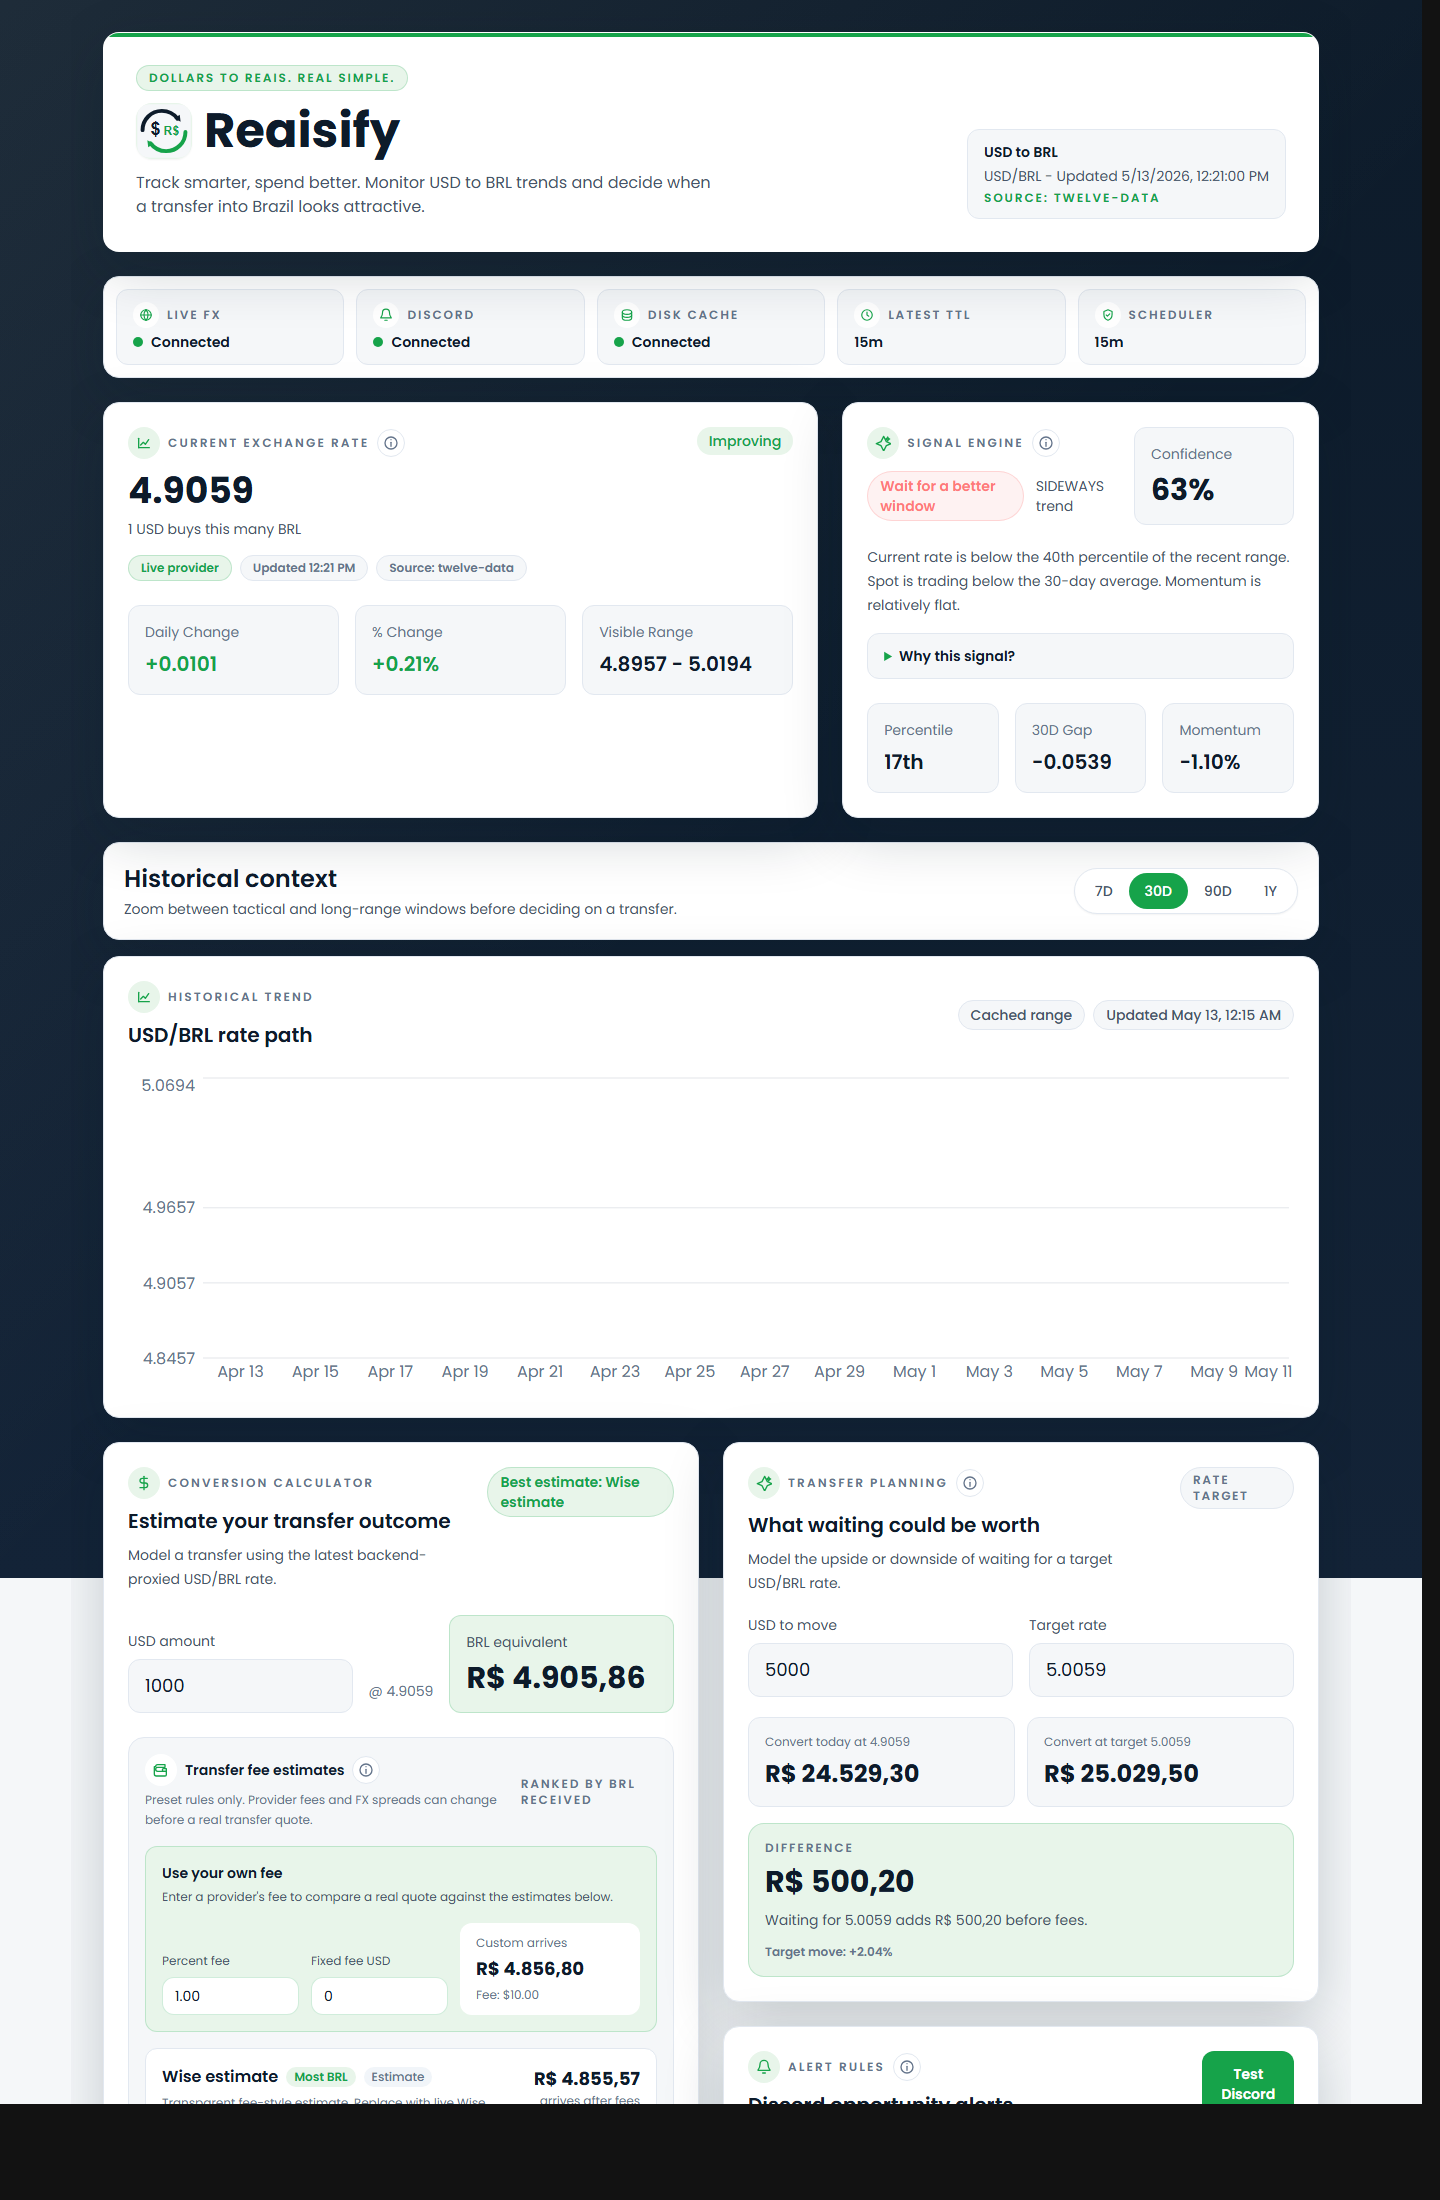
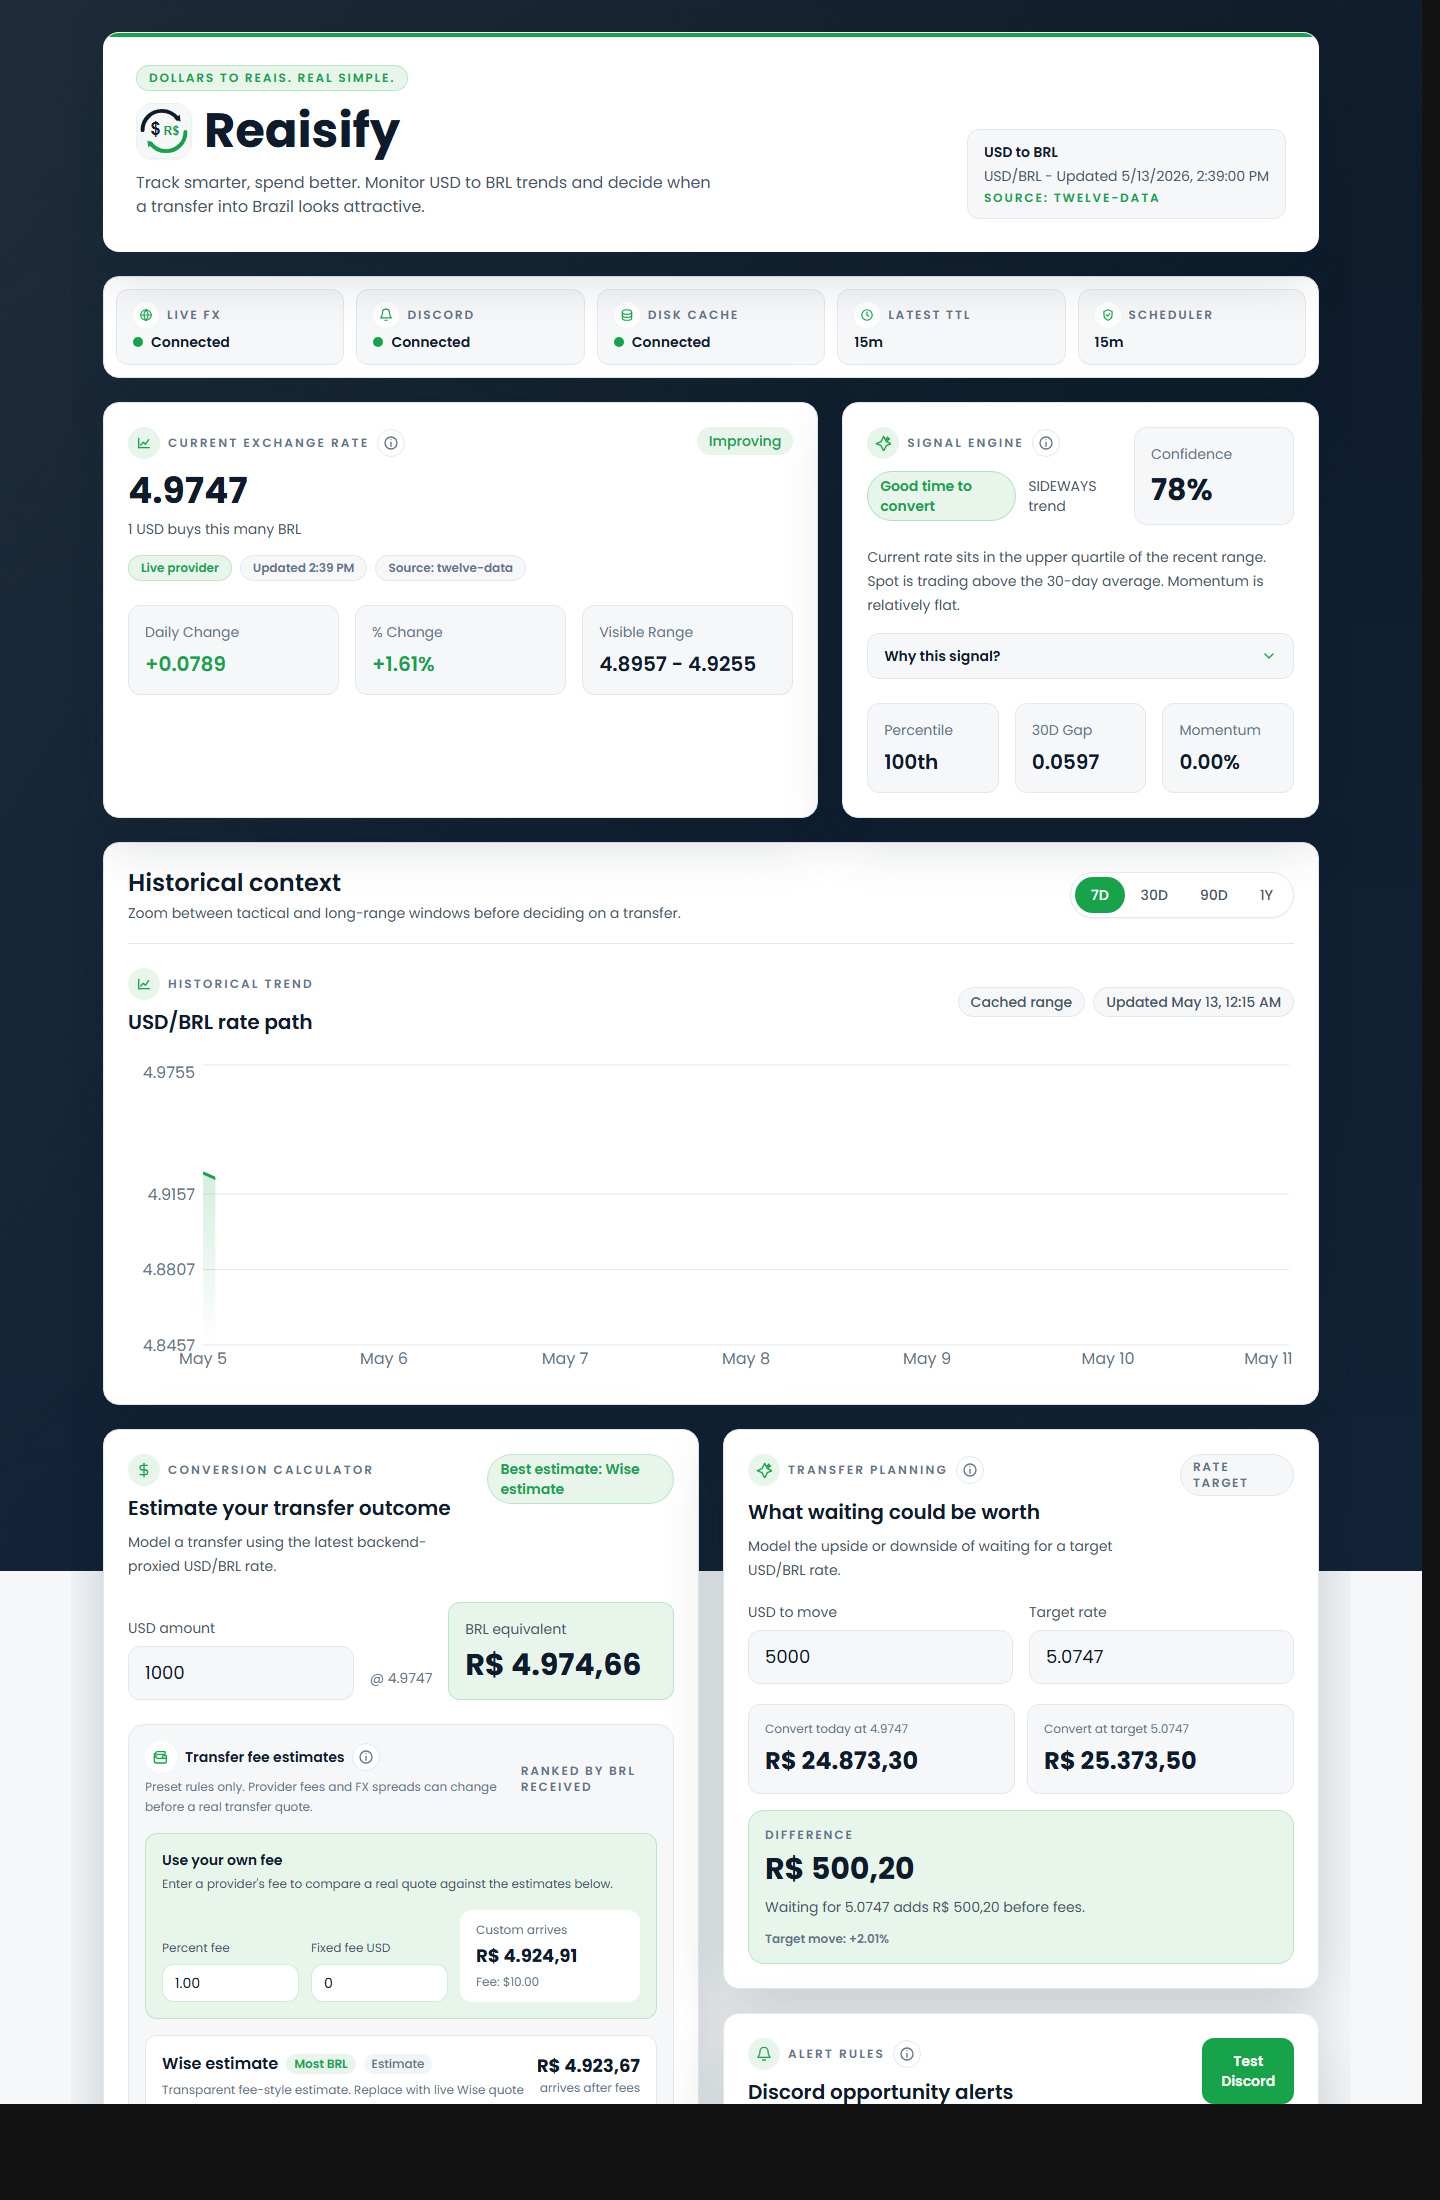
Refine chart UI and Discord embed

diff --git a/backend/src/services/discordService.ts b/backend/src/services/discordService.ts
@@ -4,6 +4,51 @@ import { appendLogLine, readLogLines } from "./fileStore.js";
 
 const DELIVERY_LOG_FILE = "alert-deliveries.log";
 
+const buildChartUrl = (points: FxPoint[]) => {
+  const sampledPoints = points.slice(-30);
+  const config = {
+    type: "line",
+    data: {
+      labels: sampledPoints.map((point) =>
+        new Intl.DateTimeFormat("en-US", { month: "short", day: "numeric", timeZone: "UTC" }).format(
+          new Date(point.date),
+        ),
+      ),
+      datasets: [
+        {
+          label: "USD/BRL",
+          data: sampledPoints.map((point) => point.rate),
+          borderColor: "#16A34A",
+          backgroundColor: "rgba(22, 163, 74, 0.12)",
+          borderWidth: 3,
+          pointRadius: 0,
+          fill: true,
+          tension: 0.35,
+        },
+      ],
+    },
+    options: {
+      plugins: {
+        legend: { display: false },
+      },
+      scales: {
+        x: { grid: { display: false }, ticks: { color: "#64748B" } },
+        y: {
+          grid: { color: "rgba(100,116,139,0.18)" },
+          ticks: {
+            color: "#64748B",
+            callback: "function(value) { return 'R$ ' + Number(value).toFixed(2); }",
+          },
+        },
+      },
+    },
+  };
+
+  return `https://quickchart.io/chart?width=900&height=360&backgroundColor=white&c=${encodeURIComponent(
+    JSON.stringify(config),
+  )}`;
+};
+
 const recommendationLabel = (signal: SignalAssessment) =>
   signal.recommendation === "GOOD"
     ? "Good time to convert"
@@ -15,7 +60,7 @@ const buildDiscordPayload = (
   alert: AlertRule,
   latest: FxLatest,
   signal: SignalAssessment,
-  _chartPoints: FxPoint[] = [],
+  chartPoints: FxPoint[] = [],
 ) => ({
   username: "Reaisify",
   embeds: [
@@ -39,6 +84,7 @@ const buildDiscordPayload = (
       footer: {
         text: "Reaisify - backend-proxied FX alert",
       },
+      image: chartPoints.length > 0 ? { url: buildChartUrl(chartPoints) } : undefined,
       timestamp: latest.timestamp,
     },
   ],

diff --git a/frontend/src/components/SignalCard.tsx b/frontend/src/components/SignalCard.tsx
@@ -1,3 +1,4 @@
+import { useState } from "react";
 import type { SignalAssessment } from "../types/currency";
 import { Icon } from "./Icon";
 import { InfoPopover } from "./InfoPopover";
@@ -43,8 +44,11 @@ const explainMomentum = (momentum: number) => {
   return `Momentum is mostly flat at ${percent}%, so the signal leans more on range and average position.`;
 };
 
-export const SignalCard = ({ signal }: SignalCardProps) => (
-  <section className="max-w-full overflow-hidden rounded-2xl border border-slate-200 bg-white p-6 text-ink shadow-glow">
+export const SignalCard = ({ signal }: SignalCardProps) => {
+  const [isExplainerOpen, setIsExplainerOpen] = useState(false);
+
+  return (
+  <section className="max-w-full overflow-visible rounded-2xl border border-slate-200 bg-white p-6 text-ink shadow-glow">
     <div className="flex min-w-0 flex-col gap-4 md:flex-row md:items-start md:justify-between">
       <div className="min-w-0">
         <div className="flex items-center gap-2">
@@ -76,16 +80,27 @@ export const SignalCard = ({ signal }: SignalCardProps) => (
 
     <p className="mt-5 text-sm leading-6 text-slate-600">{signal.reasoning}</p>
 
-    <details className="mt-4 rounded-xl border border-slate-200 bg-sand px-4 py-3">
-      <summary className="cursor-pointer text-sm font-semibold text-ink marker:text-mint">
-        Why this signal?
-      </summary>
-      <div className="mt-3 space-y-2 text-sm leading-6 text-slate-600">
+    <div className="mt-4 rounded-xl border border-slate-200 bg-sand">
+      <button
+        type="button"
+        onClick={() => setIsExplainerOpen((isOpen) => !isOpen)}
+        aria-expanded={isExplainerOpen}
+        className="flex w-full items-center justify-between gap-3 px-4 py-3 text-left text-sm font-semibold text-ink transition hover:text-mint focus:outline-none focus:ring-2 focus:ring-inset focus:ring-mint/30"
+      >
+        <span>Why this signal?</span>
+        <Icon
+          name="chevronUp"
+          className={`h-4 w-4 text-mint transition-transform ${isExplainerOpen ? "" : "rotate-180"}`}
+        />
+      </button>
+      {isExplainerOpen ? (
+        <div className="space-y-2 px-4 pb-4 text-sm leading-6 text-slate-600">
         <p>{explainPercentile(signal.percentile)}</p>
         <p>{explainAverageGap(signal.movingAverageGap)}</p>
         <p>{explainMomentum(signal.momentum)}</p>
       </div>
-    </details>
+      ) : null}
+    </div>
 
     <div className="mt-6 grid min-w-0 grid-cols-1 gap-4 sm:grid-cols-3">
       <div className="min-w-0 rounded-xl border border-slate-200 bg-sand p-4">
@@ -102,4 +117,5 @@ export const SignalCard = ({ signal }: SignalCardProps) => (
       </div>
     </div>
   </section>
-);
+  );
+};

diff --git a/frontend/src/components/ExchangeChart.tsx b/frontend/src/components/ExchangeChart.tsx
@@ -7,6 +7,7 @@ import {
   XAxis,
   YAxis,
 } from "recharts";
+import type { ReactNode } from "react";
 import type { FxPoint } from "../types/currency";
 import { formatDate, formatRate } from "../utils/formatters";
 import { EmptyState } from "./EmptyState";
@@ -17,13 +18,22 @@ interface ExchangeChartProps {
   title?: string;
   source?: string;
   updatedAt?: string;
+  controls?: ReactNode;
 }
 
 const formatUpdatedAt = (value?: string) =>
   value ? new Date(value).toLocaleString([], { month: "short", day: "numeric", hour: "numeric", minute: "2-digit" }) : "Unknown";
 
-export const ExchangeChart = ({ points, title = "USD/BRL rate path", source, updatedAt }: ExchangeChartProps) => (
+export const ExchangeChart = ({ points, title = "USD/BRL rate path", source, updatedAt, controls }: ExchangeChartProps) => (
   <section className="rounded-2xl border border-slate-200 bg-white p-6 text-ink shadow-glow">
+    <div className="mb-6 flex flex-col gap-4 border-b border-slate-200 pb-5 md:flex-row md:items-center md:justify-between">
+      <div>
+        <h2 className="text-2xl font-semibold text-ink">Historical context</h2>
+        <p className="mt-1 text-sm text-slate-600">Zoom between tactical and long-range windows before deciding on a transfer.</p>
+      </div>
+      {controls}
+    </div>
+
     <div className="mb-6 flex flex-col items-start justify-between gap-4 sm:flex-row sm:items-center">
       <div>
         <div className="flex items-center gap-2">
@@ -80,9 +90,9 @@ export const ExchangeChart = ({ points, title = "USD/BRL rate path", source, upd
                 backgroundColor: "#ffffff",
                 borderRadius: "12px",
                 border: "1px solid #e2e8f0",
-                color: "#0D1B2A",
-              }}
-              formatter={(value: number) => [formatRate(value), "Rate"]}
+              color: "#0D1B2A",
+            }}
+              formatter={(value: number) => [`R$ ${formatRate(value)}`, "BRL per USD"]}
               labelFormatter={(label) => formatDate(String(label))}
             />
             <Area

diff --git a/frontend/src/pages/Dashboard.tsx b/frontend/src/pages/Dashboard.tsx
@@ -33,7 +33,7 @@ const DashboardSkeleton = () => (
 );
 
 export const Dashboard = () => {
-  const [range, setRange] = useState<TimeRange>("30D");
+  const [range, setRange] = useState<TimeRange>("7D");
   const { series, filteredPoints, isLoading, error, retry } = useExchangeRates(pairSymbol, range);
 
   if (isLoading) {
@@ -78,19 +78,13 @@ export const Dashboard = () => {
           <SignalCard signal={series.signal} />
         </div>
 
-        <section className="min-w-0 space-y-4">
-          <div className="flex min-w-0 flex-col gap-4 rounded-2xl border border-slate-200 bg-white p-5 text-ink shadow-glow md:flex-row md:items-center md:justify-between">
-            <div className="min-w-0">
-              <h2 className="text-2xl font-semibold text-ink">Historical context</h2>
-              <p className="mt-1 text-sm text-slate-600">Zoom between tactical and long-range windows before deciding on a transfer.</p>
-            </div>
-            <TimeRangeToggle activeRange={range} onChange={setRange} />
-          </div>
+        <section className="min-w-0">
           <ExchangeChart
             points={filteredPoints}
             title={`${series.pair.base}/${series.pair.quote} rate path`}
             source={series.history.source}
             updatedAt={series.history.updatedAt}
+            controls={<TimeRangeToggle activeRange={range} onChange={setRange} />}
           />
         </section>
 

diff --git a/frontend/src/components/AlertRuleForm.tsx b/frontend/src/components/AlertRuleForm.tsx
@@ -114,7 +114,7 @@ export const AlertRuleForm = ({ pairSymbol }: AlertRuleFormProps) => {
   };
 
   return (
-    <section className="max-w-full overflow-hidden rounded-2xl border border-slate-200 bg-white p-6 text-ink shadow-glow">
+    <section className="max-w-full overflow-visible rounded-2xl border border-slate-200 bg-white p-6 text-ink shadow-glow">
       <div className="flex min-w-0 flex-col gap-4 sm:flex-row sm:items-start sm:justify-between">
         <div className="min-w-0">
           <div className="flex items-center gap-2">

diff --git a/frontend/src/components/Converter.tsx b/frontend/src/components/Converter.tsx
@@ -33,7 +33,7 @@ export const Converter = ({ pair, rate }: ConverterProps) => {
   const customRecipientAmount = Math.max(0, numericAmount - customFeeUsd) * rate;
 
   return (
-    <section className="max-w-full overflow-hidden rounded-2xl border border-slate-200 bg-white p-6 text-ink shadow-glow">
+    <section className="max-w-full overflow-visible rounded-2xl border border-slate-200 bg-white p-6 text-ink shadow-glow">
       <div className="flex flex-col gap-3 sm:flex-row sm:items-start sm:justify-between">
         <div>
           <div className="flex items-center gap-2">

diff --git a/frontend/src/components/InfoPopover.tsx b/frontend/src/components/InfoPopover.tsx
@@ -15,7 +15,7 @@ export const InfoPopover = ({ label, title, children }: InfoPopoverProps) => (
     >
       <Icon name="info" className="h-4 w-4" />
     </button>
-    <span className="pointer-events-none absolute right-0 top-9 z-20 hidden w-72 rounded-xl border border-slate-200 bg-white p-4 text-left shadow-glow group-hover:block group-focus-within:block">
+    <span className="pointer-events-none absolute right-0 top-9 z-[80] hidden w-72 max-w-[calc(100vw-2rem)] rounded-xl border border-slate-200 bg-white p-4 text-left shadow-glow group-hover:block group-focus-within:block">
       <span className="block text-sm font-semibold text-ink">{title}</span>
       <span className="mt-1 block text-xs leading-5 text-slate-600">{children}</span>
     </span>

diff --git a/frontend/src/components/RateCard.tsx b/frontend/src/components/RateCard.tsx
@@ -20,7 +20,7 @@ export const RateCard = ({ snapshot, base, quote, source, updatedAt }: RateCardP
   const isLive = !source.includes("mock") && !source.includes("derived");
 
   return (
-    <section className="max-w-full overflow-hidden rounded-2xl border border-slate-200 bg-white p-6 text-ink shadow-glow">
+    <section className="max-w-full overflow-visible rounded-2xl border border-slate-200 bg-white p-6 text-ink shadow-glow">
       <div className="flex flex-col items-start justify-between gap-4 sm:flex-row">
         <div className="min-w-0">
           <div className="flex items-center gap-2">